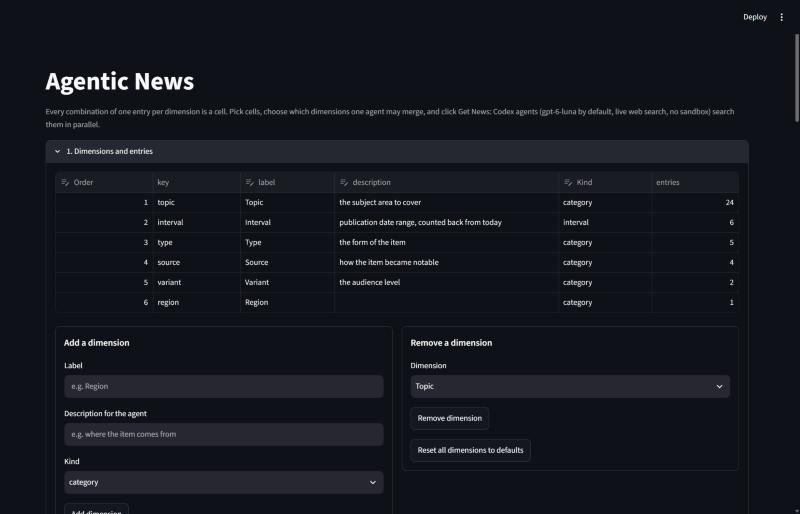
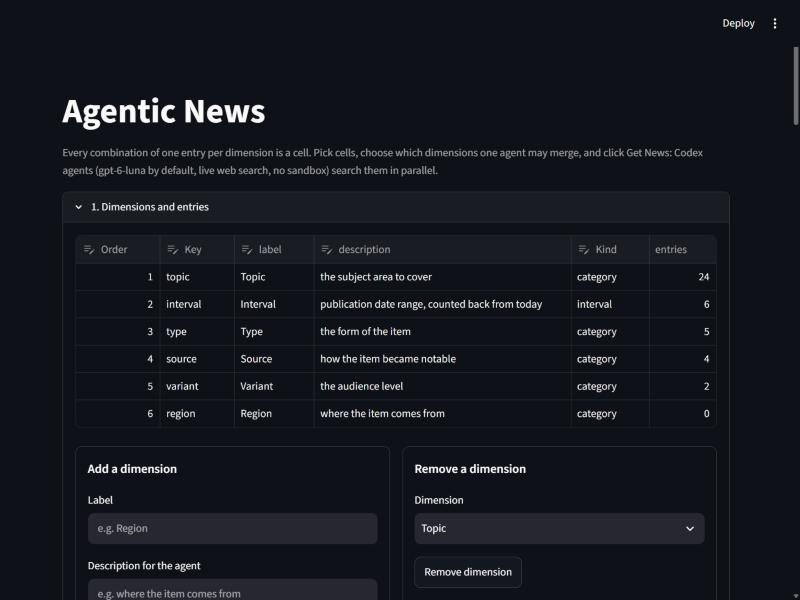
UI: accurate grid caption and configured log path
- Results grid caption says counts are summed over the dimensions not on the grid
- Agents status line shows the real LOGS_DIR log path (relative to the project when inside it), with a test
- Retake docs/images/dimensions.jpg: the table header is now 'Key'

diff --git a/src/agentic_news/dashboard/status.py b/src/agentic_news/dashboard/status.py
@@ -10,7 +10,7 @@ import pandas as pd  # status table
 import streamlit as st  # UI
 
 from agentic_news.launcher import is_active, stop_run  # run control
-from agentic_news.settings import Settings  # runs_dir
+from agentic_news.settings import PROJECT_ROOT, Settings  # runs_dir, logs_dir
 from agentic_news.store import list_runs, read_json  # run files
 
 
@@ -36,8 +36,10 @@ def _status_body(settings: Settings) -> None:
     state = "interrupted" if not active and status.get("state") in ("starting", "running") else status.get("state")
     agents = status.get("agents", {}).values()
     done = sum(a["state"] in ("done", "failed", "timeout") for a in agents)
+    log = settings.logs_dir / f"run_{runs[0]}.log"  # LOGS_DIR may point anywhere; show it relative when inside
+    log = log.relative_to(PROJECT_ROOT) if log.is_relative_to(PROJECT_ROOT) else log
     st.markdown(f"Run **{runs[0]}**: **{state}** · {done}/{len(agents)} agents finished · started "
-                f"{status.get('started')} · log `logs/run_{runs[0]}.log`")
+                f"{status.get('started')} · log `{log}`")
     if agents:
         st.dataframe(pd.DataFrame([{"agent": a.get("label", a.get("topic")), "state": a["state"],
                                     "attempt": a["attempt"], "cells": a["cells"], "searches": a["searches"],

diff --git a/src/agentic_news/dashboard/results.py b/src/agentic_news/dashboard/results.py
@@ -94,8 +94,8 @@ def render_results(settings: Settings) -> None:
     st.session_state[cols_key] = [k for k in st.session_state.get(cols_key, [interval]) if k not in rows]
     cols = c.multiselect("Grid columns", [k for k in keys if k not in rows], format_func=label_of.get, key=cols_key)
     grid, row_tuples, col_tuples = _pivot(df, cells, keys, rows, cols)
-    st.caption(f"Items per cell over {len(cells)} selected cell(s). Select grid rows, columns or cells to list "
-               "their items below.")
+    st.caption(f"Item counts over {len(cells)} selected cell(s), summed over the dimensions not on the grid. Select "
+               "grid rows, columns or cells to list their items below.")
     event = st.dataframe(grid, on_select="rerun", selection_mode=["multi-row", "multi-column", "multi-cell"],
                          key=f"pivot_{run_id}")
     sel = event.selection

diff --git a/tests/test_app.py b/tests/test_app.py
@@ -121,6 +121,7 @@ def test_agents_section_shows_live_status(fake_env: Path) -> None:
                                                                 "error": ""}}})
     at = _app()
     assert "1/1 agents finished" in _markdown(at)
+    assert str(fake_env / "logs" / "run_20261022-100000.log") in _markdown(at)  # the configured LOGS_DIR
     table = next(d.value for d in at.dataframe if "agent" in d.value.columns)
     assert table.iloc[0]["agent"] == "Physics · Last day" and table.iloc[0]["off-grid dropped"] == 1
 
